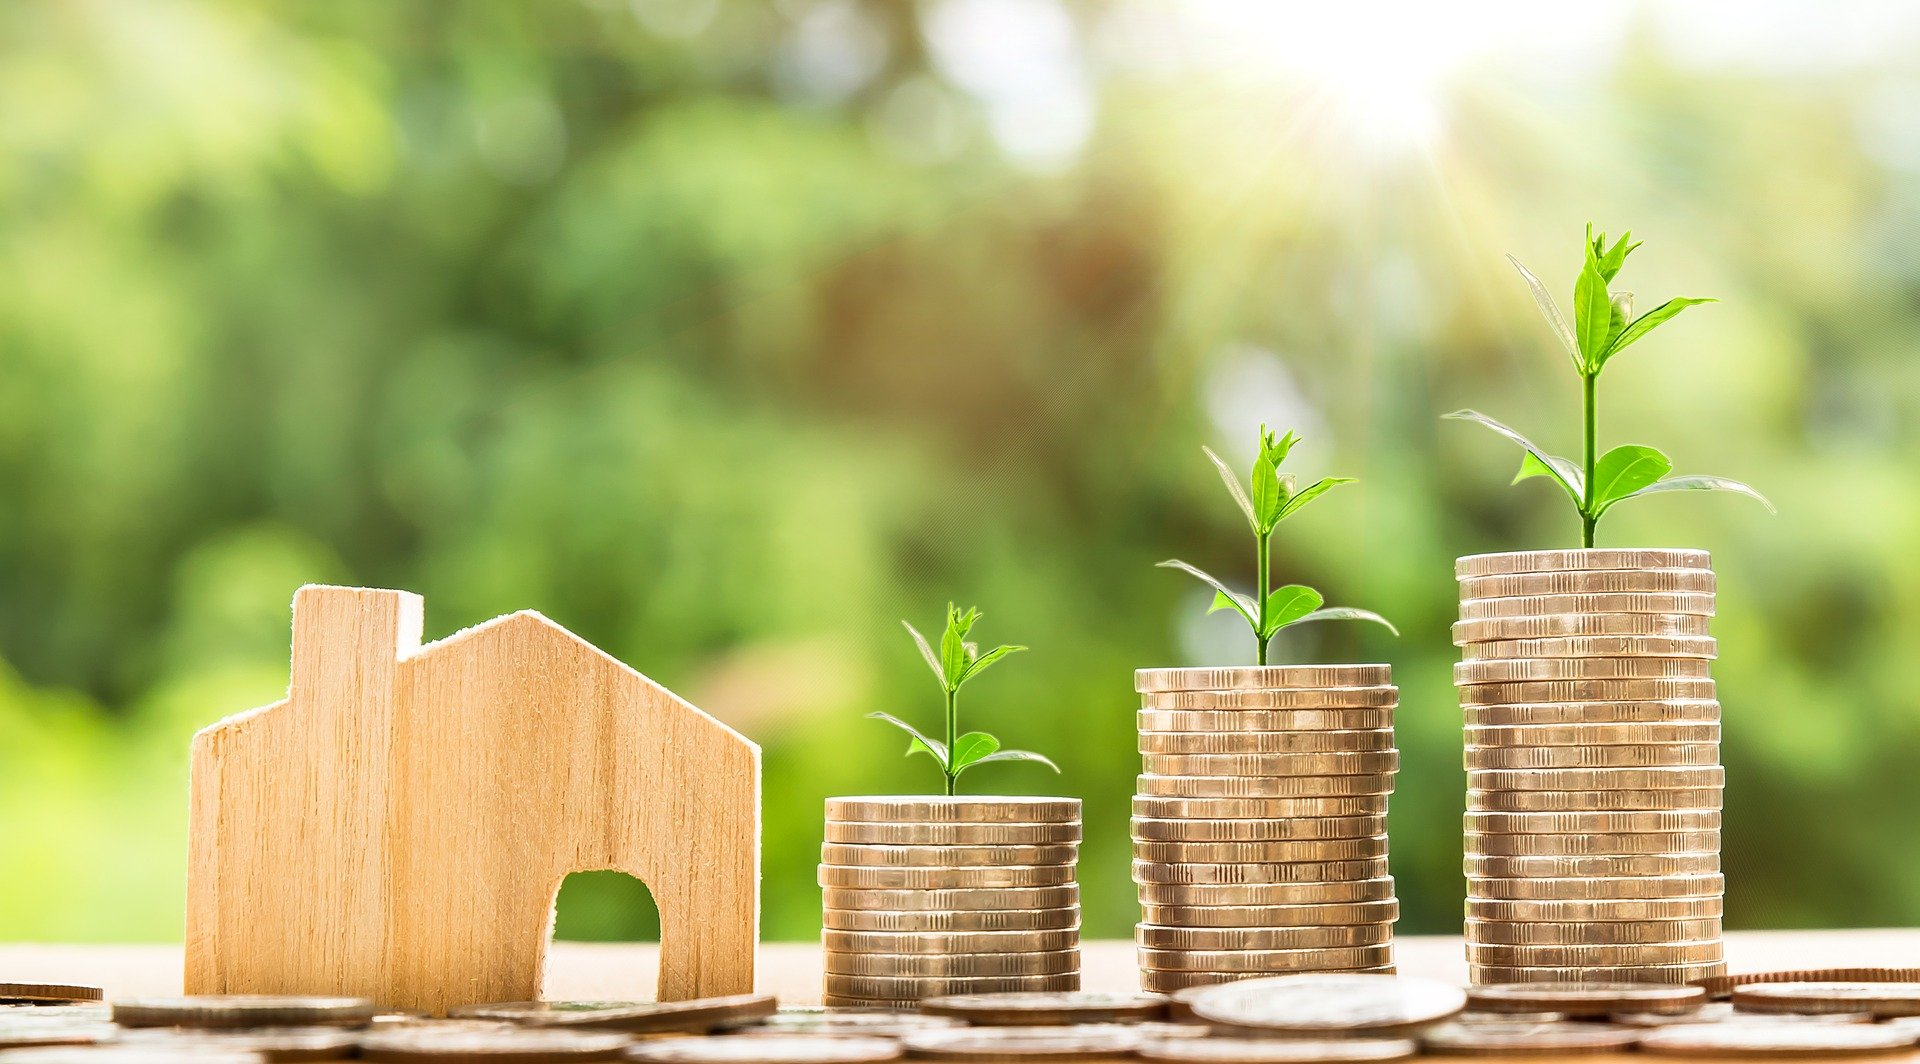
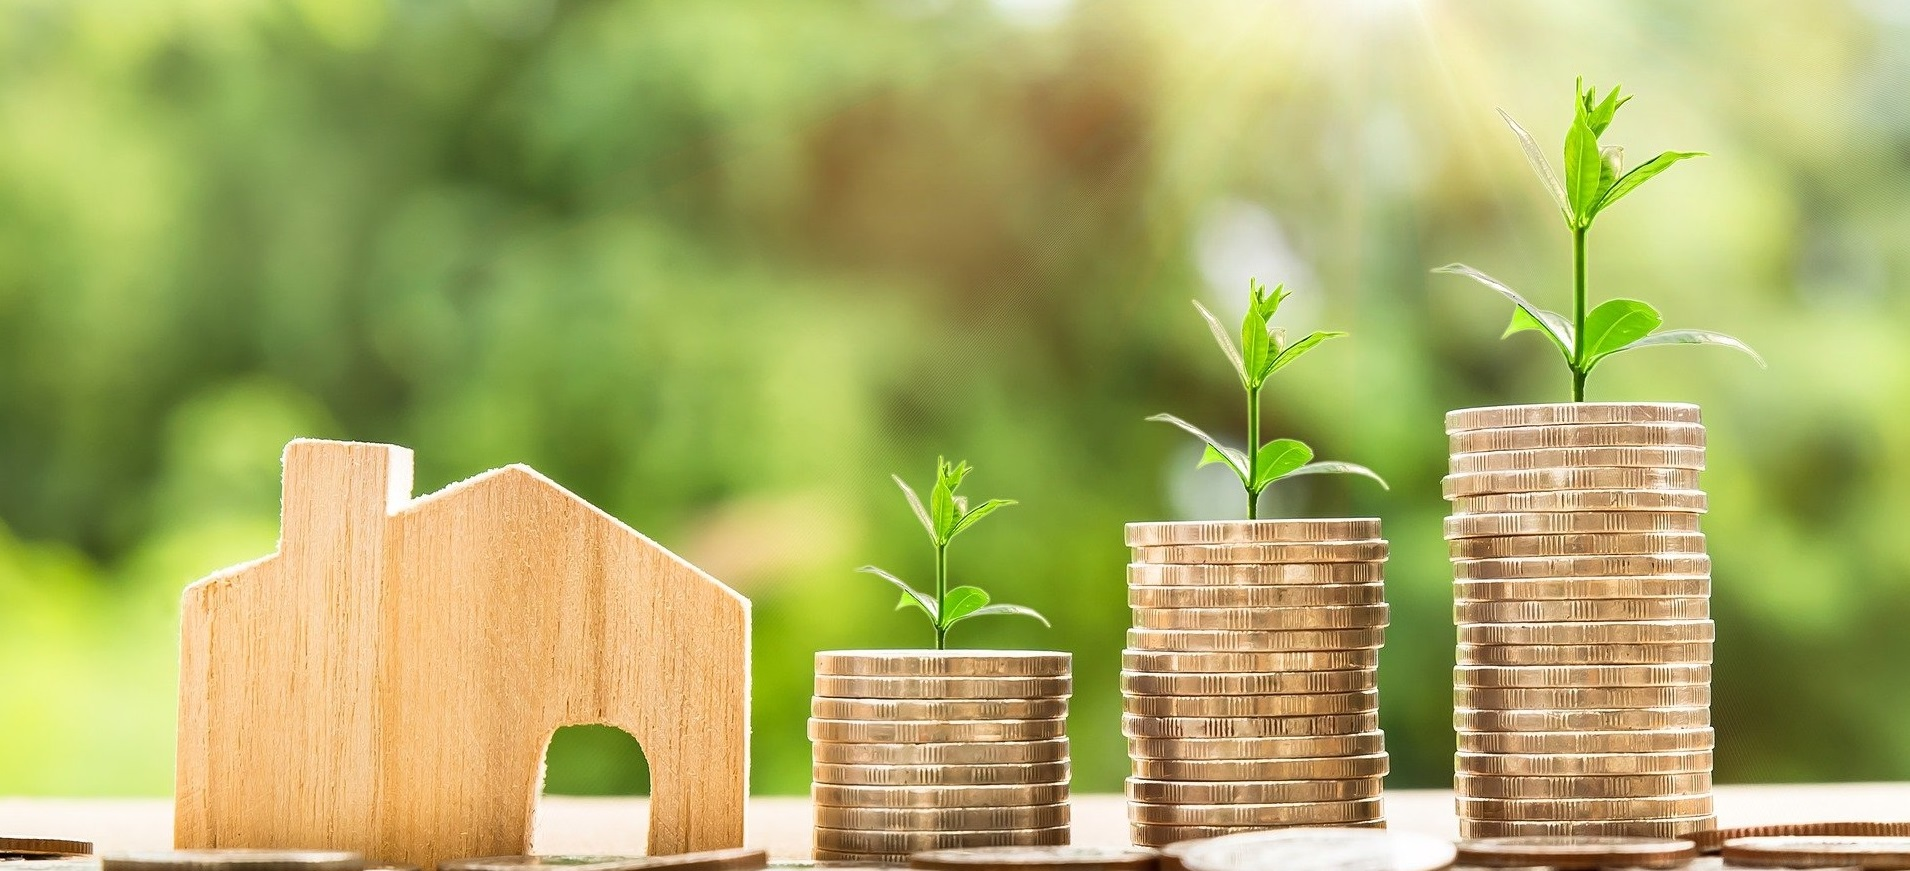
Mise en place de la bannière de la page

diff --git a/qui.html b/qui.html
@@ -1,0 +1,20 @@
+<!DOCTYPE html>
+<html lang="fr">
+<head>
+    <meta charset="UTF-8">
+    <meta http-equiv="X-UA-Compatible" content="IE=edge">
+    <meta name="viewport" content="width=device-width, initial-scale=1.0">
+    <link rel="stylesheet" href="css/style.css">
+    <title>Crédit Lédonien - Qui sommes-nous ?</title>
+    <meta name="description" content="Essayez notre simulateur de crédit, nous avons vos solution de crédit et nous vous accompagnons vers une solution responsable.">
+</head>
+<body>
+    <div class="who-banner">
+        <p class="title-banner">Le crédit responsable par <br/> le Crédit Lédonien</p>
+        
+        
+    </div>
+    
+     
+</body>
+</html>

diff --git a/css/style.css b/css/style.css
@@ -1,10 +1,45 @@
-/* FONTS */
+
+body {
+   margin:0;
+}
+
 h2 {
     color:#001d26;
     font-family:ITC_Eras_Bold;
     font-size: 55px;
 }
 
+
+
+
+
+
+.who-banner{
+   height:46vw;
+   overflow:hidden;
+   background-image: url(../images/banner.jpg);
+   background-size: contain;
+   background-repeat: no-repeat;
+   position: relative;
+   align-items: center;
+   justify-content: center;
+   display:flex;
+   
+}  
+    
+.title-banner{
+   font-family: ITC_Eras_Bold;
+   color : white;
+   font-size : 40px;
+   text-align: center;
+
+}
+
+@media screen and (max-width : 600px){
+   .title-banner{
+      font-size: 25px;
+   }
+}
 
 @font-face {
    font-family: ITC_Eras_Bold; 
